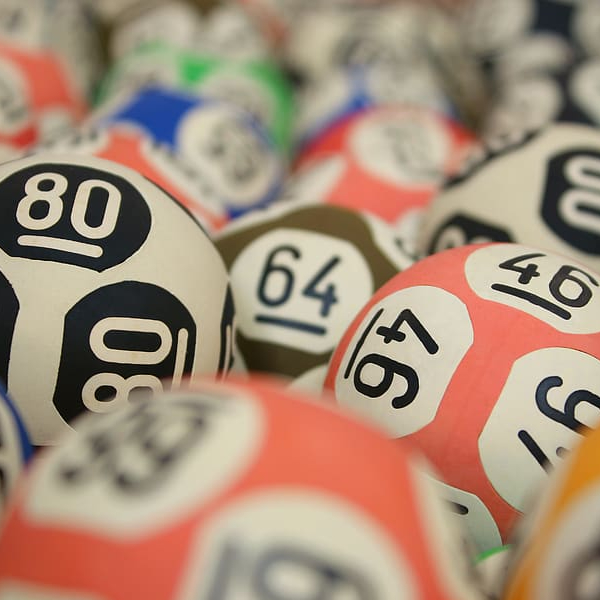
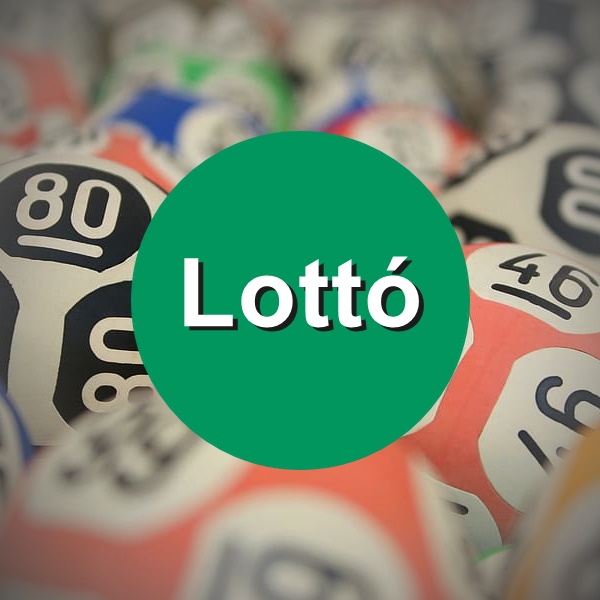
05/17 dokumentacio, lapelrendezes

diff --git a/index.html b/index.html
@@ -8,6 +8,9 @@
     <link rel="stylesheet" href="css.css">
 </head>
 <body>
+<div id="hatter_lista">
+    <p> 
+    <img src="hatter.jpg" width="490px">
     <ul>
     <li><a href="index.html"> Korábbi sorsolások  </a> </li> <hr class="menuvonal"> 
     <li><a href="leggyakoribb_szamok.html"> Leggyakoribb számok</a> </li> <hr class="menuvonal"> 
@@ -17,5 +20,7 @@
     <li><a href="grafikonok.html"> Grafikonok </a> </li> <hr class="menuvonal"> 
     <li><a href="erdekes_tortenetek.html"> Érdekes történetek </a> </li> <hr class="menuvonal"> 
     </ul>
+    </p>
+</div>
 </body>
 </html>

diff --git a/css.css b/css.css
@@ -7,6 +7,7 @@ ul{
    font-size:medium;
    float: left;
    position: absolute;
+   padding-top: 20px;
 }
 a{
    text-decoration: none;
@@ -19,12 +20,14 @@ hr.menuvonal {
 }
 li{
    text-align:justify;
-   height: 20px;
-   text-indent: 1px;
+   height: 30px;
 }
 
 body {
-   background-image: url(hatter.jpg);
    background-repeat: no-repeat;
    background-color: white;
+}
+#hatter_lista{
+   background-color: #444444;
+   float: left;
 }

diff --git a/README.md b/README.md
@@ -8,4 +8,5 @@ https://krizsakkornelkaroly.github.io/IKT_Lotto/
 - 04/20: Excel táblázat formázása, weboldal formázása CSS-el, háttér megvágása, menüformázás.
 - 04/24: Varga Zoltánnak feladatok kiosztva és átrendezve, több feladat kiosztva, szakaszolás és képbeszúrás.
 - 05/04: CSS fejlesztés, golyo_lila.png; golyo_kek.png; ... feltöltése, hatter.jpg bal oldalra való elhelyezése.
-- 05/16: CSS bugfix, 
+- 05/16: CSS bugfix, Varga Zoltán felmentve feladatok alól.
+- 05/17: Háttér szerkesztése, oldal formázása, menü formázása.
